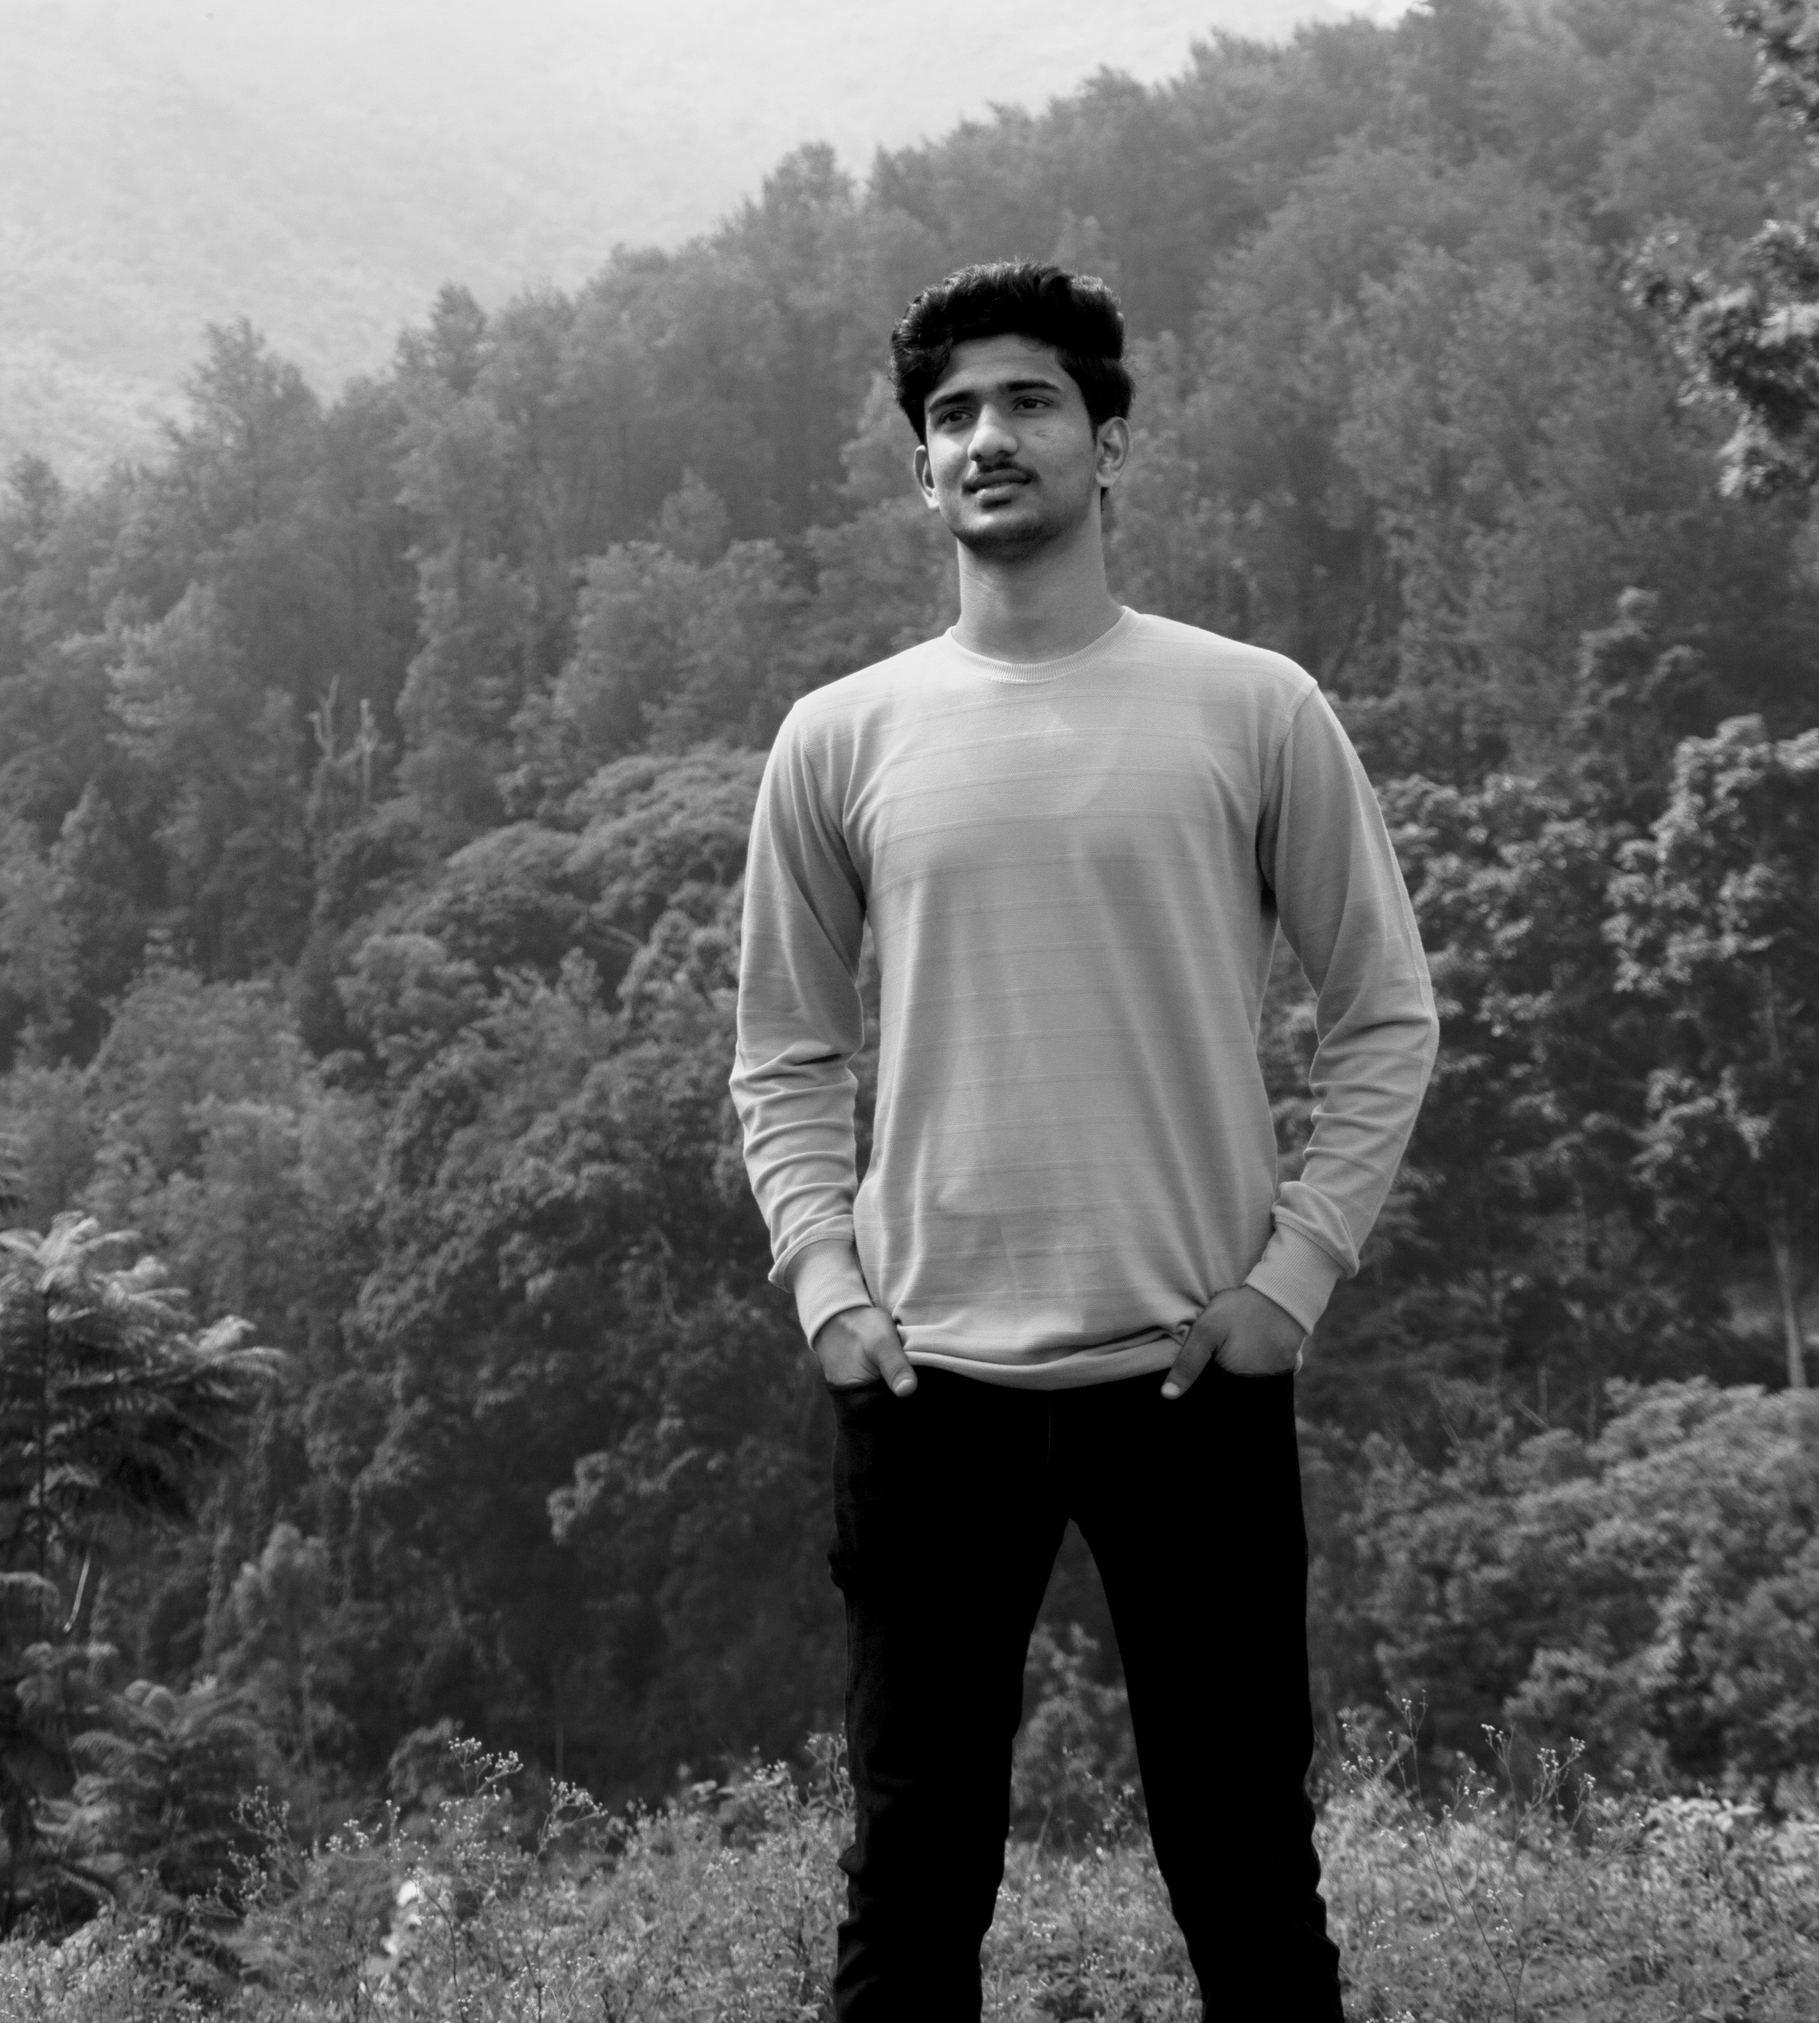
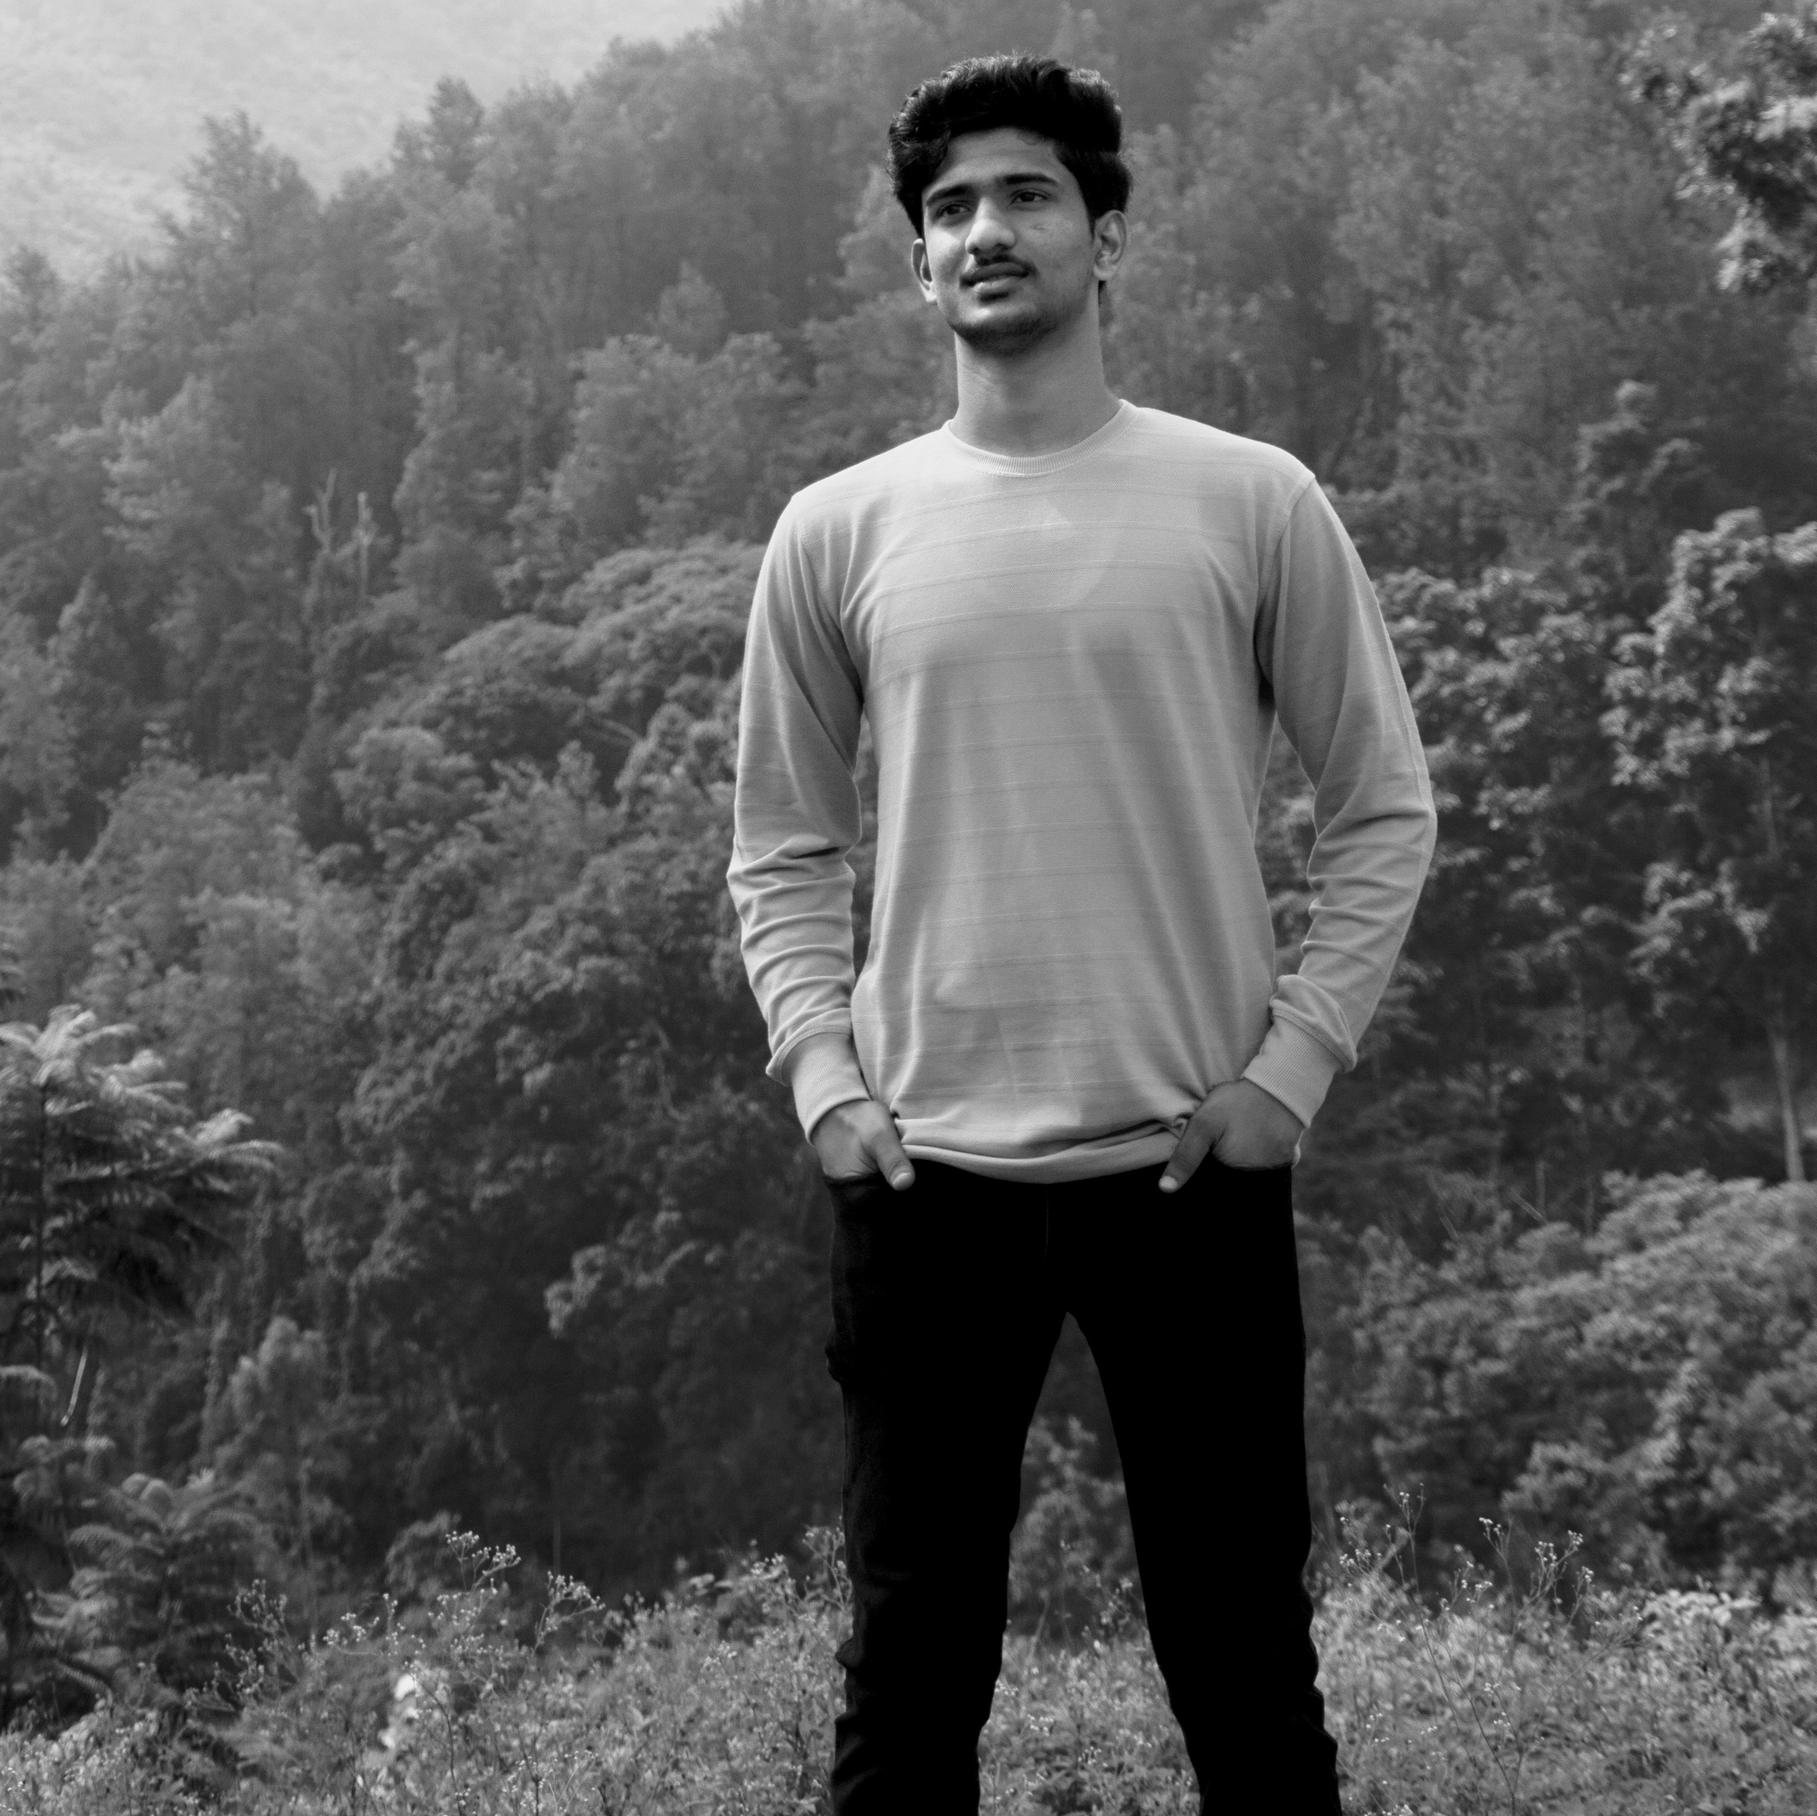
g

diff --git a/src/components/body/about/index.js b/src/components/body/about/index.js
@@ -24,7 +24,7 @@ function About() {
         </div>
         <div className="about-photo">
           <img
-            src={require("../../../assets/image/me11~5.jpg").default}
+            src={require("../../../assets/image/me9~2.jpg").default}
             className="picture"
           />
         </div>
